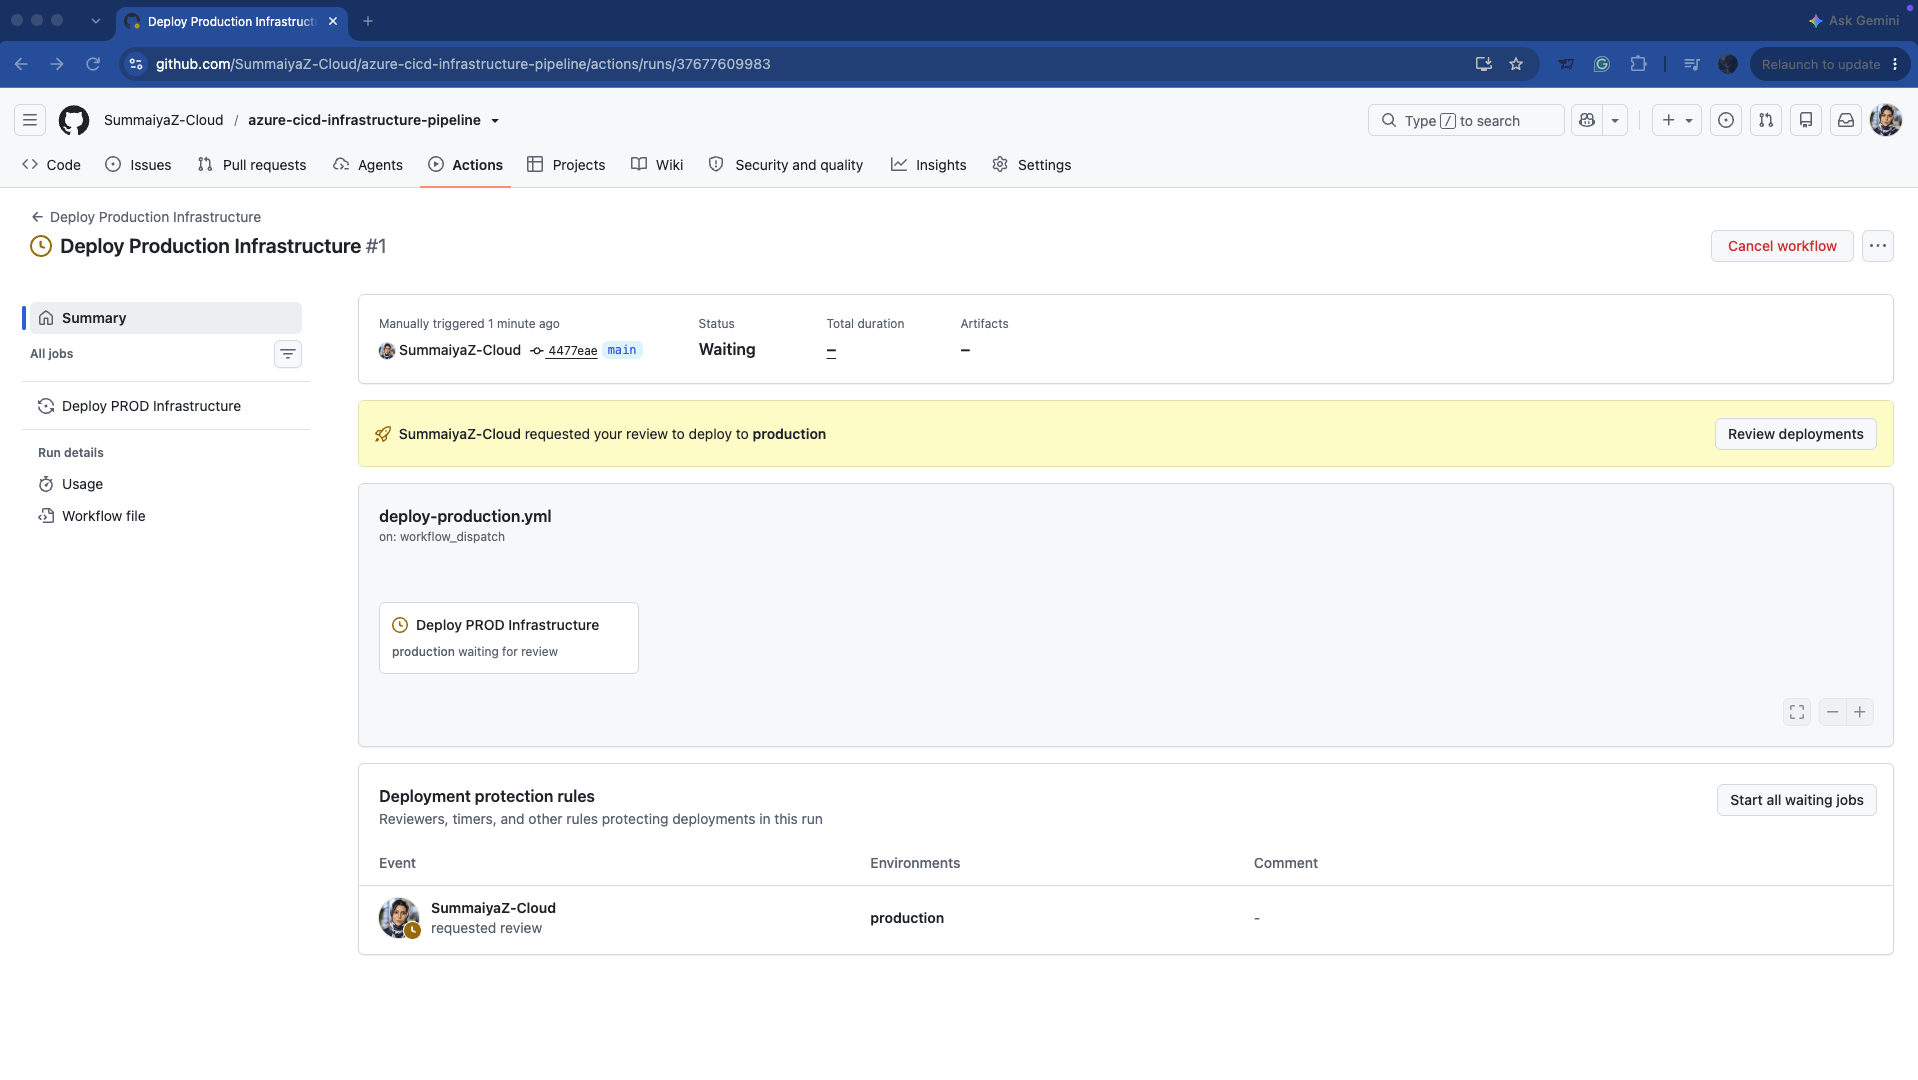
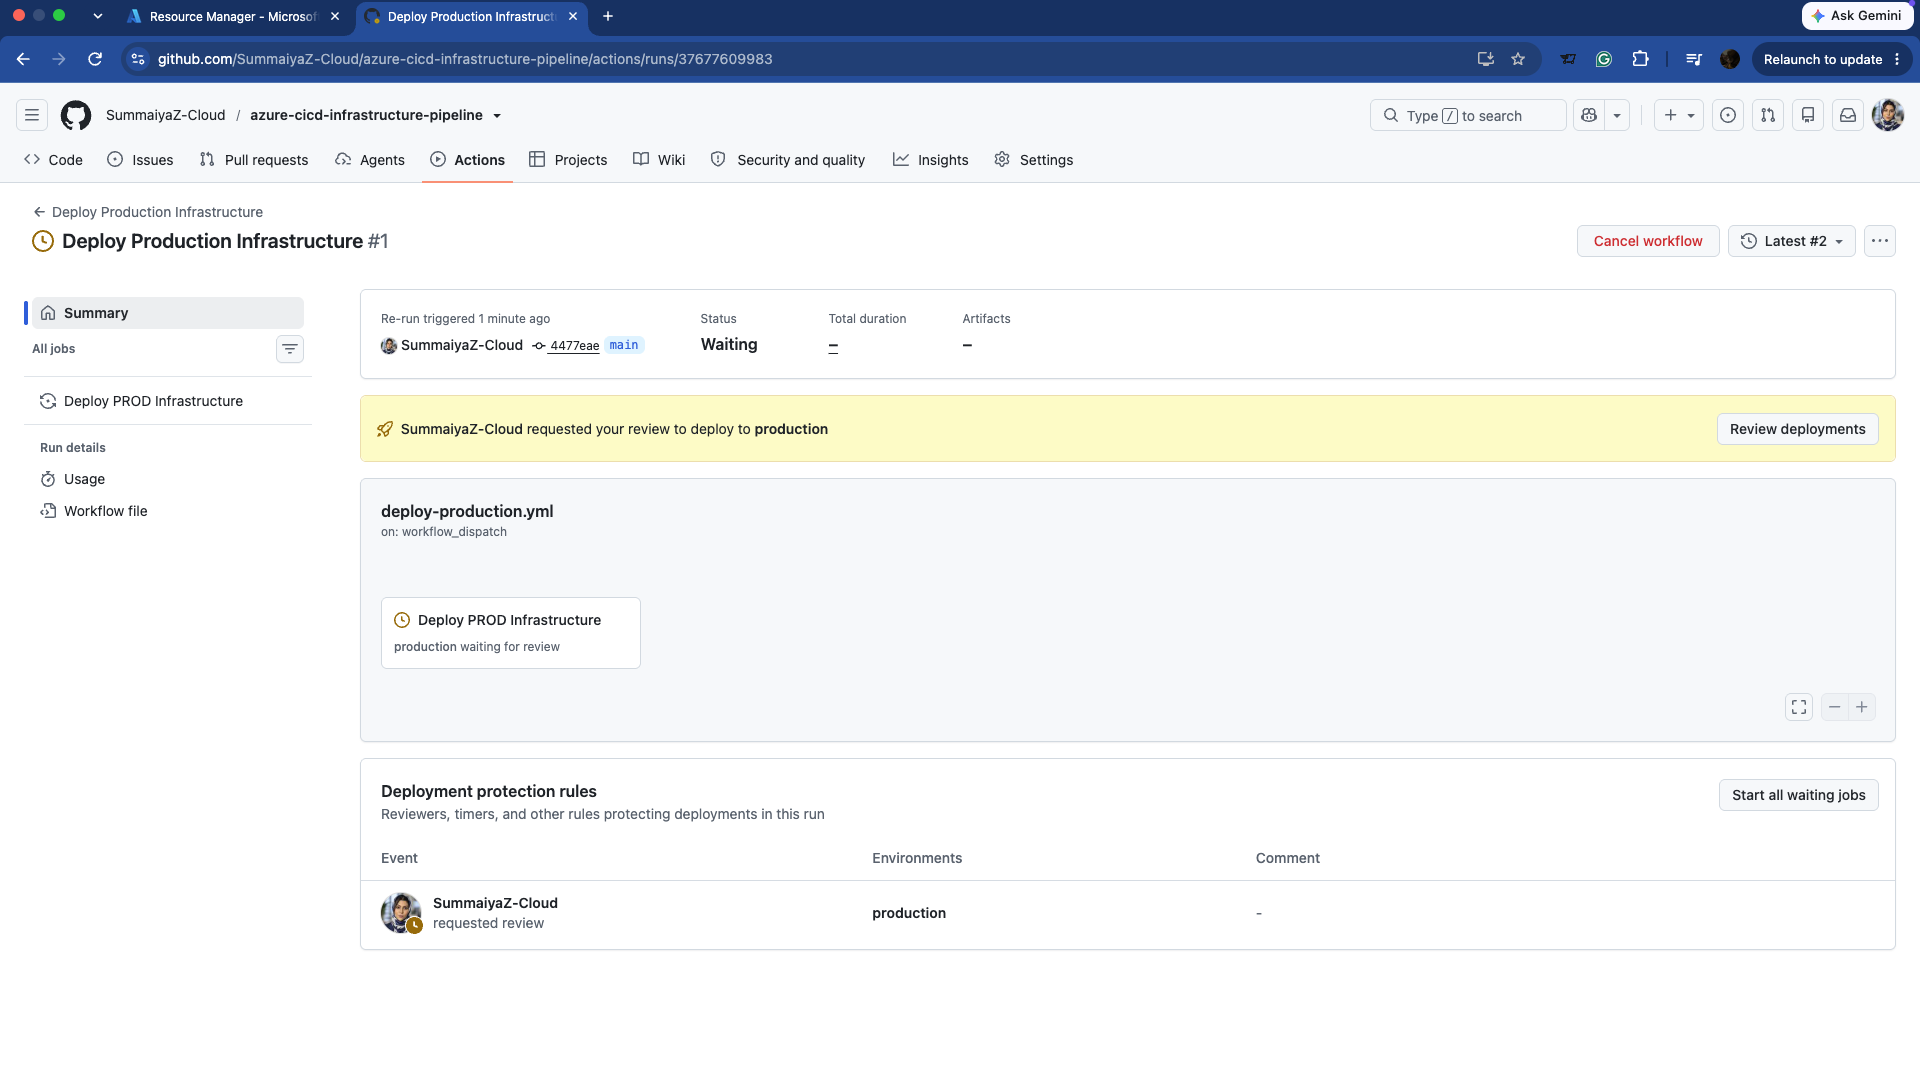
feat: add IaC security scanning to CI pipeline

diff --git a/README.md b/README.md
@@ -92,7 +92,7 @@ The workflow:
 
 The GitHub `development` environment restricts deployments to the `main` branch.
 
-## Controlled Production Deployment
+# Controlled Production Deployment
 
 Production uses a separate manually triggered workflow.
 
@@ -101,13 +101,19 @@ Controls include:
 - GitHub `workflow_dispatch`
 - `main` branch deployment restriction
 - GitHub `production` environment
+- Pre-deployment Bicep validation
+- Azure What-If analysis before approval
 - Required reviewer approval
 - Dedicated production OIDC federated credential
 - Resource-group-scoped Azure RBAC
 
-The production workflow was tested through the approval gate and intentionally cancelled before infrastructure deployment.
+The production release flow follows:
 
-This verifies the release control without creating unnecessary production resources.
+**Manual trigger → Bicep validation → Azure What-If → Required reviewer approval → Production deployment**
+
+The production workflow successfully completed validation and What-If analysis before reaching the protected production approval gate. The workflow was intentionally cancelled at the approval stage, preventing production infrastructure from being deployed.
+
+This validates the production release controls without creating unnecessary production resources.
 
 ## Passwordless Azure Authentication
 
@@ -182,6 +188,10 @@ The delivery process incorporates multiple controls:
 ### Production Approval Gate
 
 ![Production approval gate](screenshots/06-production-approval-gate.png)
+
+### Production Validation Before Approval
+
+![PROD validation before approval](screenshots/07-prod-validation-before-approval.png)
 
 ## Deployment Result
 
